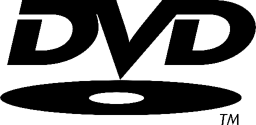
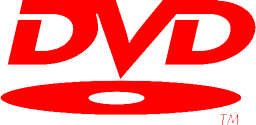
Updated Demos 2

diff --git a/demos/DVD/style.css b/demos/DVD/style.css
@@ -9,8 +9,9 @@ main{
 }
 img{
     padding: 10px;
-    filter: invert();
-    animation: bounce 10s linear infinite;
+    filter: auto;
+    animation: bounce 10s linear infinite,
+    rainbow 3.5s linear infinite;
     transform: translate(0, 0);
 }
 @keyframes bounce {
@@ -23,19 +24,19 @@ img{
     25%{
         transform: translate(
             calc(100vw - 100%), 
-            calc(50vh - 75%)
+            calc(50vh - 35px - 50%)
         );
     }
     50%{
         transform: translate(
             calc(0vw - 0%), 
-            calc(100vh - 150%)
+            calc(100vh - 70px - 100%)
         );
     }
     75%{
         transform: translate(
             calc(100vw - 100%), 
-            calc(50vh - 75%)
+            calc(50vh - 35px - 50%)
         );
     }
     to{
@@ -43,5 +44,13 @@ img{
         calc(0vw - 0%), 
         calc(0vh - 0%)
     );
+    }
+}
+@keyframes rainbow {
+    from{
+        filter: hue-rotate(0deg);
+    }
+    to{
+        filter: hue-rotate(360deg);
     }
 }

diff --git a/demos/Inscryption/index.html b/demos/Inscryption/index.html
@@ -4,7 +4,7 @@
     <base href="../../">
     <meta charset="UTF-8">
     <meta name="viewport" content="width=device-width, initial-scale=1.0">
-    <title>Demos</title>
+    <title>Inscryption</title>
     <meta property="og:site_name" content="Hannah's Website">
     <meta property="og:url" content="https://hannah130405.github.io/">
     <meta property="og:title" content="Inscryption">
@@ -35,6 +35,7 @@
     </nav>
     <header></header>
     <main>
+
     </main>
 </body>
 </html>

diff --git a/demos/DVD/index.html b/demos/DVD/index.html
@@ -4,7 +4,7 @@
     <base href="../../">
     <meta charset="UTF-8">
     <meta name="viewport" content="width=device-width, initial-scale=1.0">
-    <title>Demos</title>
+    <title>DVD Screensaver</title>
     <meta property="og:site_name" content="Hannah's Website">
     <meta property="og:url" content="https://hannah130405.github.io/">
     <meta property="og:title" content="DVD Screensaver">
